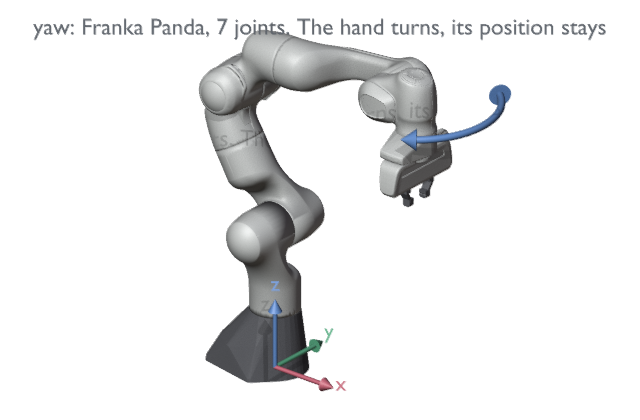
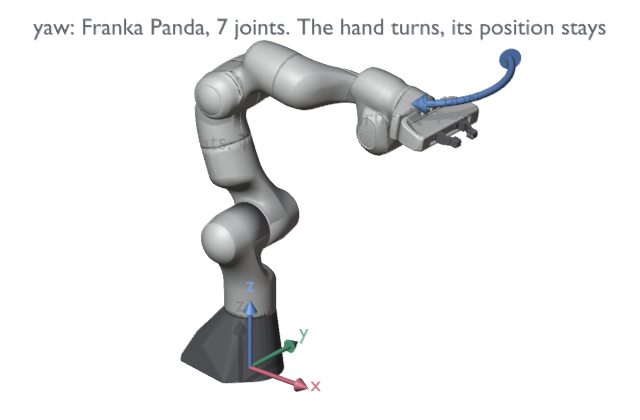
6dof-demo: Panda yaw clip with the hand level and a wide swing, so the arm visibly turns while the hand stays

Changed region(s): [[0.2812, 0.0619, 0.8125, 0.9286]]

diff --git a/Cartesian/6dof-demo/trajectories.py b/Cartesian/6dof-demo/trajectories.py
@@ -36,9 +36,13 @@ CLIP_SECONDS = 3.0            # one full back-and-forth
 TRAVEL_M = 0.04               # ± for x, y, z
 PITCH_RAD = math.radians(25)  # ±
 ROLL_RAD = math.radians(40)   # ±
-YAW_RAD = math.radians(40)    # ± on the Panda
-PANDA_HOME_DEG = (0, -30, 0, -120, 0, 90, 45)   # elbow bent, hand pointing down over the table
+YAW_RAD = math.radians(60)    # ± on the Panda: wide, so the elbow visibly swings while the hand stays
+PANDA_HOME_DEG = (0, -20, 0, -120, 0, 180, 45)   # elbow bent, hand level and pointing forward, wrist joints well inside their limits
 PANDA_TOOL = "panda_hand"
+PANDA_POSTURE_WEIGHT = 5e-3   # far below the hand task: the base follows the yaw only as far as the hand allows
+PANDA_BASE_FOLLOW = 0.9       # how much of the hand's yaw the base is asked to take on
+PANDA_ITERATIONS = 200        # QP steps per frame; the posture task makes convergence slower
+PANDA_POSITION_TOL_M = 0.002  # the hand may not drift more than this while yawing
 
 SO101_CLIPS = {
     "x": ("xyz", (1, 0, 0)), "y": ("xyz", (0, 1, 0)), "z": ("xyz", (0, 0, 1)),
@@ -88,6 +92,11 @@ def panda_yaw_clip(urdf: Path) -> dict:
     solver.mask_fbase(True)
     task = solver.add_frame_task(PANDA_TOOL, T0)
     task.configure("hand", "soft", 1.0, 1.0)
+    # The Panda has one joint more than a pose needs, so the elbow can swing without the hand
+    # moving. A weak posture task asks the base to follow the yaw: the whole arm visibly turns
+    # while the hand pose task (much heavier) keeps the hand's position exactly where it is.
+    posture = solver.add_joints_task()
+    posture.configure("posture", "soft", PANDA_POSTURE_WEIGHT)
     solver.add_regularization_task(1e-4)
     solver.mask_dof("panda_finger_joint1")
     solver.mask_dof("panda_finger_joint2")
@@ -104,11 +113,12 @@ def panda_yaw_clip(urdf: Path) -> dict:
         T = T0.copy()
         T[:3, :3] = rot_z(YAW_RAD * w) @ T0[:3, :3]      # same position, turned about the vertical axis
         task.T_world_frame = T
-        for _ in range(60):
+        posture.set_joint("panda_joint1", YAW_RAD * w * PANDA_BASE_FOLLOW)
+        for _ in range(PANDA_ITERATIONS):
             solver.solve(True)
             robot.update_kinematics()
         Tn = np.array(robot.get_T_world_frame(PANDA_TOOL))
-        if np.linalg.norm(Tn[:3, 3] - T0[:3, 3]) > 1e-3:
+        if np.linalg.norm(Tn[:3, 3] - T0[:3, 3]) > PANDA_POSITION_TOL_M:
             raise SystemExit("STOP: Panda hand position drifted during the yaw clip")
         rows.append([float(robot.get_joint(j)) for j in joints])
         tool_p.append([float(v) for v in Tn[:3, 3]])
